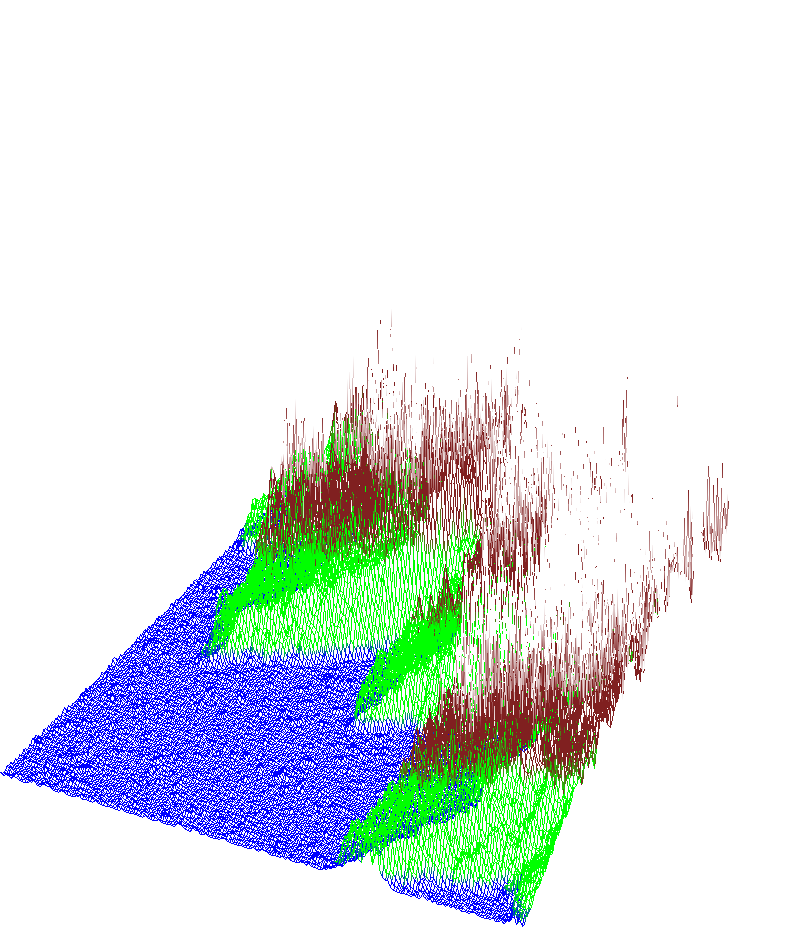
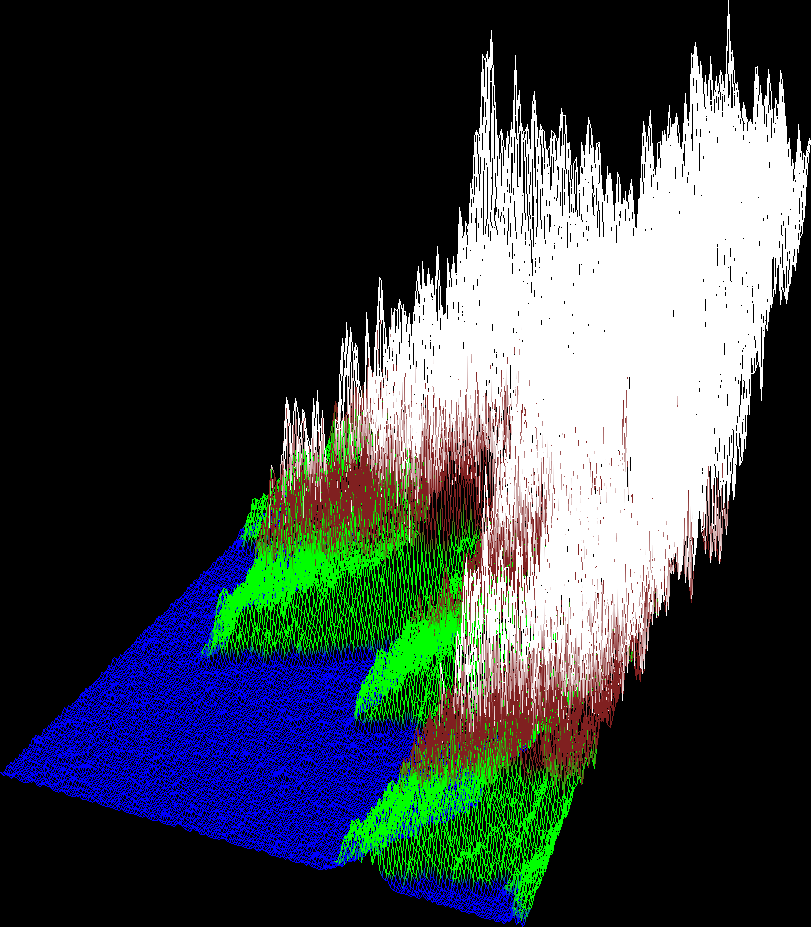
Use black background.

diff --git a/fdf.go b/fdf.go
@@ -3,6 +3,8 @@ package main
 import (
 	"fmt"
 	"image"
+	"image/color"
+	"image/draw"
 	"math"
 
 	"go.creack.net/fdf/math3"
@@ -20,7 +22,7 @@ type Fdf struct {
 
 // NewFdf loads/parses the map and creates a fdf engine.
 func NewFdf() (*Fdf, error) {
-	buf, err := mapData.ReadFile("maps/42.fdf")
+	buf, err := mapData.ReadFile("maps/t1.fdf")
 	if err != nil {
 		return nil, fmt.Errorf("fs readfile: %w", err)
 	}
@@ -75,6 +77,10 @@ func (m *Fdf) SetHeightFactor(f float64) { m.heightFactor = f }
 func (m *Fdf) Draw() image.Image {
 	bounds := m.getProjectedBounds()
 	img := image.NewRGBA(bounds)
+
+	// Add black background.
+	// Remove this to allow for transparency.
+	draw.Draw(img, img.Bounds(), image.NewUniform(color.Black), image.Point{}, draw.Over)
 
 	for y, line := range m.Points {
 		for x, elem := range line {

diff --git a/render/pngrenderer/png_renderer.go b/render/pngrenderer/png_renderer.go
@@ -25,8 +25,10 @@ func New(fileName string, width, height int) render.Renderer {
 }
 
 func (r *renderer) Run(g render.Engine) error {
+	// Set the projection to isometric.
 	render.Iso(g, r.width, r.height)
 
+	// Render the wireframe.
 	fdfImg := g.Draw()
 
 	buf := bytes.NewBuffer(nil)

diff --git a/main.go b/main.go
@@ -22,7 +22,7 @@ func main() {
 	}
 
 	if runtime.GOOS != "js" {
-		if err := pngrenderer.New("docs/42.png", 2050, 1100).Run(g); err != nil {
+		if err := pngrenderer.New("docs/t1.png", 2050, 1100).Run(g); err != nil {
 			log.Fatal(err)
 		}
 	}
